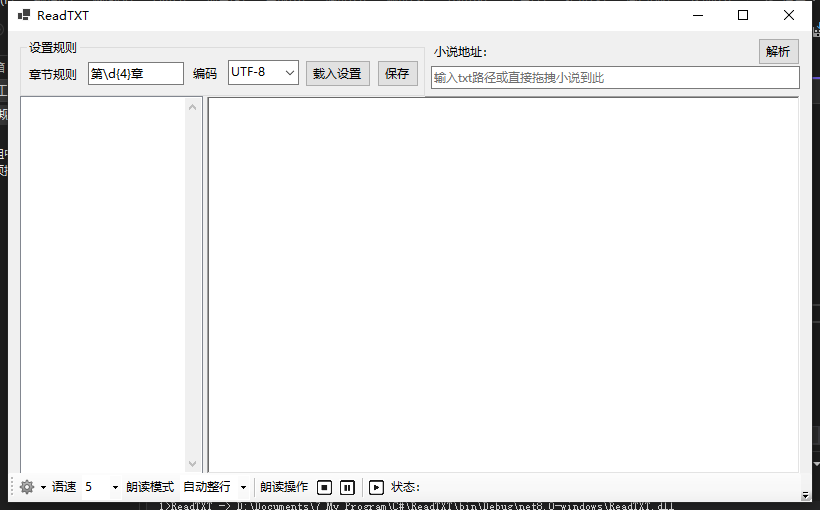
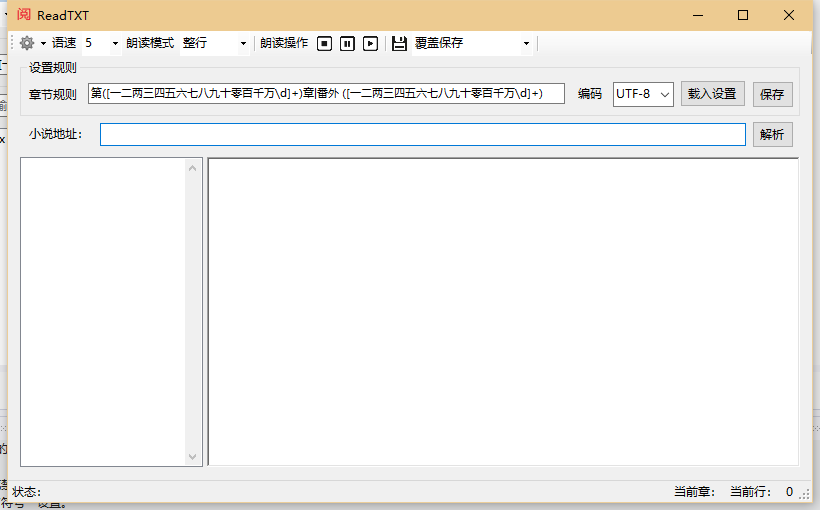
- 1 界面调整，控件命名规范化； - 2 默认章节规则修改为：第([一二两三四五六七八九十零百千万\d]+)章|番外 ([一二两三四五六七八九十零百千万\d]+) - 3 增加迷你窗体模式； - 4 增加快捷键操作； - 5 增加软件图标，以及托盘图标（包括右键菜单）；

Changed region(s): [[0.0, 0.0, 1.0, 1.0], [0.2134, 0.8824, 0.2439, 0.9118]]

diff --git a/ReadTXT.Designer.cs b/ReadTXT.Designer.cs
@@ -260,35 +260,35 @@
             // 背景色ToolStripMenuItem
             // 
             背景色ToolStripMenuItem.Name = "背景色ToolStripMenuItem";
-            背景色ToolStripMenuItem.Size = new Size(180, 22);
+            背景色ToolStripMenuItem.Size = new Size(112, 22);
             背景色ToolStripMenuItem.Text = "背景色";
             背景色ToolStripMenuItem.Click += 背景色ToolStripMenuItem_Click;
             // 
             // 字体ToolStripMenuItem
             // 
             字体ToolStripMenuItem.Name = "字体ToolStripMenuItem";
-            字体ToolStripMenuItem.Size = new Size(180, 22);
+            字体ToolStripMenuItem.Size = new Size(112, 22);
             字体ToolStripMenuItem.Text = "字体";
             字体ToolStripMenuItem.Click += 字体ToolStripMenuItem_Click;
             // 
             // 语音包ToolStripMenuItem
             // 
             语音包ToolStripMenuItem.Name = "语音包ToolStripMenuItem";
-            语音包ToolStripMenuItem.Size = new Size(180, 22);
+            语音包ToolStripMenuItem.Size = new Size(112, 22);
             语音包ToolStripMenuItem.Text = "语音包";
             // 
             // 快捷键ToolStripMenuItem
             // 
             快捷键ToolStripMenuItem.DropDownItems.AddRange(new ToolStripItem[] { 窗体切换ToolStripMenuItem, 最小化ToolStripMenuItem, 迷你窗体置顶ToolStripMenuItem, 开始朗读ToolStripMenuItem, 暂停朗读ToolStripMenuItem, 下一章ToolStripMenuItem, toolStripSeparator6, 重置默认ToolStripMenuItem });
             快捷键ToolStripMenuItem.Name = "快捷键ToolStripMenuItem";
-            快捷键ToolStripMenuItem.Size = new Size(180, 22);
+            快捷键ToolStripMenuItem.Size = new Size(112, 22);
             快捷键ToolStripMenuItem.Text = "快捷键";
             // 
             // 窗体切换ToolStripMenuItem
             // 
             窗体切换ToolStripMenuItem.DropDownItems.AddRange(new ToolStripItem[] { Winswitch_shortcut_toolStripTextBox });
             窗体切换ToolStripMenuItem.Name = "窗体切换ToolStripMenuItem";
-            窗体切换ToolStripMenuItem.Size = new Size(180, 22);
+            窗体切换ToolStripMenuItem.Size = new Size(148, 22);
             窗体切换ToolStripMenuItem.Text = "窗体切换";
             窗体切换ToolStripMenuItem.Click += 窗体切换ToolStripMenuItem_Click;
             // 
@@ -304,7 +304,7 @@
             // 
             最小化ToolStripMenuItem.DropDownItems.AddRange(new ToolStripItem[] { Minimize_shortcut_toolStripTextBox });
             最小化ToolStripMenuItem.Name = "最小化ToolStripMenuItem";
-            最小化ToolStripMenuItem.Size = new Size(180, 22);
+            最小化ToolStripMenuItem.Size = new Size(148, 22);
             最小化ToolStripMenuItem.Text = "最小化";
             最小化ToolStripMenuItem.Click += 最小化ToolStripMenuItem_Click;
             // 
@@ -320,7 +320,7 @@
             // 
             迷你窗体置顶ToolStripMenuItem.DropDownItems.AddRange(new ToolStripItem[] { MinTop_shortcut_toolStripTextBox });
             迷你窗体置顶ToolStripMenuItem.Name = "迷你窗体置顶ToolStripMenuItem";
-            迷你窗体置顶ToolStripMenuItem.Size = new Size(180, 22);
+            迷你窗体置顶ToolStripMenuItem.Size = new Size(148, 22);
             迷你窗体置顶ToolStripMenuItem.Text = "迷你窗体置顶";
             迷你窗体置顶ToolStripMenuItem.Click += 迷你窗体置顶ToolStripMenuItem_Click;
             // 
@@ -336,7 +336,7 @@
             // 
             开始朗读ToolStripMenuItem.DropDownItems.AddRange(new ToolStripItem[] { Startreading_shortcut_toolStripTextBox });
             开始朗读ToolStripMenuItem.Name = "开始朗读ToolStripMenuItem";
-            开始朗读ToolStripMenuItem.Size = new Size(180, 22);
+            开始朗读ToolStripMenuItem.Size = new Size(148, 22);
             开始朗读ToolStripMenuItem.Text = "开始朗读";
             开始朗读ToolStripMenuItem.Click += 开始朗读ToolStripMenuItem_Click;
             // 
@@ -345,14 +345,14 @@
             Startreading_shortcut_toolStripTextBox.Name = "Startreading_shortcut_toolStripTextBox";
             Startreading_shortcut_toolStripTextBox.ReadOnly = true;
             Startreading_shortcut_toolStripTextBox.Size = new Size(100, 23);
-            Startreading_shortcut_toolStripTextBox.Tag = "Ctrl+Alt+K";
-            Startreading_shortcut_toolStripTextBox.Text = "Ctrl+Alt+K";
+            Startreading_shortcut_toolStripTextBox.Tag = "Ctrl+K";
+            Startreading_shortcut_toolStripTextBox.Text = "Ctrl+K";
             // 
             // 暂停朗读ToolStripMenuItem
             // 
             暂停朗读ToolStripMenuItem.DropDownItems.AddRange(new ToolStripItem[] { Pausereading_shortcut_toolStripTextBox });
             暂停朗读ToolStripMenuItem.Name = "暂停朗读ToolStripMenuItem";
-            暂停朗读ToolStripMenuItem.Size = new Size(180, 22);
+            暂停朗读ToolStripMenuItem.Size = new Size(148, 22);
             暂停朗读ToolStripMenuItem.Text = "暂停朗读";
             暂停朗读ToolStripMenuItem.Click += 暂停朗读ToolStripMenuItem_Click;
             // 
@@ -361,14 +361,14 @@
             Pausereading_shortcut_toolStripTextBox.Name = "Pausereading_shortcut_toolStripTextBox";
             Pausereading_shortcut_toolStripTextBox.ReadOnly = true;
             Pausereading_shortcut_toolStripTextBox.Size = new Size(100, 23);
-            Pausereading_shortcut_toolStripTextBox.Tag = "Ctrl+Alt+Z";
-            Pausereading_shortcut_toolStripTextBox.Text = "Ctrl+Alt+Z";
+            Pausereading_shortcut_toolStripTextBox.Tag = "Ctrl+Z";
+            Pausereading_shortcut_toolStripTextBox.Text = "Ctrl+Z";
             // 
             // 下一章ToolStripMenuItem
             // 
             下一章ToolStripMenuItem.DropDownItems.AddRange(new ToolStripItem[] { Nextchapterreading_shortcut_toolStripTextBox });
             下一章ToolStripMenuItem.Name = "下一章ToolStripMenuItem";
-            下一章ToolStripMenuItem.Size = new Size(180, 22);
+            下一章ToolStripMenuItem.Size = new Size(148, 22);
             下一章ToolStripMenuItem.Text = "下一章";
             下一章ToolStripMenuItem.Click += 下一章ToolStripMenuItem_Click;
             // 
@@ -377,18 +377,18 @@
             Nextchapterreading_shortcut_toolStripTextBox.Name = "Nextchapterreading_shortcut_toolStripTextBox";
             Nextchapterreading_shortcut_toolStripTextBox.ReadOnly = true;
             Nextchapterreading_shortcut_toolStripTextBox.Size = new Size(100, 23);
-            Nextchapterreading_shortcut_toolStripTextBox.Tag = "Ctrl+Alt+N";
-            Nextchapterreading_shortcut_toolStripTextBox.Text = "Ctrl+Alt+N";
+            Nextchapterreading_shortcut_toolStripTextBox.Tag = "Ctrl+N";
+            Nextchapterreading_shortcut_toolStripTextBox.Text = "Ctrl+N";
             // 
             // toolStripSeparator6
             // 
             toolStripSeparator6.Name = "toolStripSeparator6";
-            toolStripSeparator6.Size = new Size(177, 6);
+            toolStripSeparator6.Size = new Size(145, 6);
             // 
             // 重置默认ToolStripMenuItem
             // 
             重置默认ToolStripMenuItem.Name = "重置默认ToolStripMenuItem";
-            重置默认ToolStripMenuItem.Size = new Size(180, 22);
+            重置默认ToolStripMenuItem.Size = new Size(148, 22);
             重置默认ToolStripMenuItem.Text = "重置默认";
             重置默认ToolStripMenuItem.Click += 重置默认ToolStripMenuItem_Click;
             // 
@@ -475,6 +475,7 @@
             Save_toolStripButton.Name = "Save_toolStripButton";
             Save_toolStripButton.Size = new Size(23, 22);
             Save_toolStripButton.Text = "保存";
+            Save_toolStripButton.ToolTipText = "保存(Ctrl+Alt+S)";
             Save_toolStripButton.Click += Save_toolStripButton_Click;
             // 
             // Save_toolStripComboBox
@@ -600,6 +601,7 @@
             Icon = (Icon)resources.GetObject("$this.Icon");
             MinimumSize = new Size(820, 510);
             Name = "ReadTXT";
+            StartPosition = FormStartPosition.CenterScreen;
             Text = "ReadTXT";
             Load += ReadTXT_Load;
             groupBox1.ResumeLayout(false);

diff --git a/HotkeyInputForm.cs b/HotkeyInputForm.cs
@@ -100,7 +100,7 @@ namespace ReadTXT
             return key.ToString();
         }
 
-        private void HotkeyInputForm_KeyDown(object sender, KeyEventArgs e)
+        private void HotkeyInputForm_KeyDown(object? sender, KeyEventArgs e)
         {
             // 更新修饰键状态
             UpdateModifierState(e.KeyCode, true);
@@ -116,7 +116,7 @@ namespace ReadTXT
             e.SuppressKeyPress = true;
         }
 
-        private void HotkeyInputForm_KeyUp(object sender, KeyEventArgs e)
+        private void HotkeyInputForm_KeyUp(object? sender, KeyEventArgs e)
         {
             // 更新修饰键状态
             UpdateModifierState(e.KeyCode, false);
@@ -159,7 +159,7 @@ namespace ReadTXT
                    key == Keys.LWin || key == Keys.RWin;
         }
 
-        private void okButton_Click(object sender, EventArgs e)
+        private void OkButton_Click(object? sender, EventArgs e)
         {
             // 验证热键
             if (primaryKey.HasValue)
@@ -174,14 +174,14 @@ namespace ReadTXT
             }
         }
 
-        private void cancelButton_Click(object sender, EventArgs e)
+        private void CancelButton_Click(object? sender, EventArgs e)
         {
             HotkeyString = string.Empty;
             this.DialogResult = DialogResult.Cancel;
             this.Close();
         }
 
-        private void clearButton_Click(object sender, EventArgs e)
+        private void ClearButton_Click(object? sender, EventArgs e)
         {
             // 清除当前设置
             ctrlPressed = false;
@@ -226,7 +226,7 @@ namespace ReadTXT
             this.okButton.TabIndex = 2;
             this.okButton.Text = "确定";
             this.okButton.UseVisualStyleBackColor = true;
-            this.okButton.Click += new System.EventHandler(this.okButton_Click);
+            this.okButton.Click += new System.EventHandler(this.OkButton_Click);
 
             // clearButton
             this.clearButton.Location = new System.Drawing.Point(93, 90);
@@ -235,7 +235,7 @@ namespace ReadTXT
             this.clearButton.TabIndex = 3;
             this.clearButton.Text = "清除";
             this.clearButton.UseVisualStyleBackColor = true;
-            this.clearButton.Click += new System.EventHandler(this.clearButton_Click);
+            this.clearButton.Click += new System.EventHandler(this.ClearButton_Click);
 
             // cancelButton
             this.cancelButton.Location = new System.Drawing.Point(174, 90);
@@ -244,7 +244,7 @@ namespace ReadTXT
             this.cancelButton.TabIndex = 4;
             this.cancelButton.Text = "取消";
             this.cancelButton.UseVisualStyleBackColor = true;
-            this.cancelButton.Click += new System.EventHandler(this.cancelButton_Click);
+            this.cancelButton.Click += new System.EventHandler(this.CancelButton_Click);
 
             // HotkeyInputForm
             this.ClientSize = new System.Drawing.Size(260, 135);

diff --git a/HotkeyManager.cs b/HotkeyManager.cs
@@ -35,9 +35,9 @@ namespace ReadTXT
                     { "ToggleMode", "Ctrl+Alt+M" },
                     { "MinimizeOrClose", "Ctrl+Alt+X" },
                     { "ToggleTopMost", "Ctrl+Alt+T" },
-                    { "StartReading", "Ctrl+Alt+K" },
-                    { "StopReading", "Ctrl+Alt+Z" },
-                    { "NextChapter", "Ctrl+Alt+N" },
+                    { "StartReading", "Ctrl+K" },
+                    { "StopReading", "Ctrl+Z" },
+                    { "NextChapter", "Ctrl+N" },
                     { "SaveDocument", "Ctrl+Alt+S" }
                 };
             }

diff --git a/README.md b/README.md
@@ -37,11 +37,12 @@
 
 ### 3.1 界面
 ![项目界面](StartView.png)
-
+![迷你窗口界面](MiniView.png)
 ### 3.2 设置
 
-#### 3.2.1 章节规则-通过正则表达匹配
-1 默认规则：第\d{4}章，用于匹配以“第”字开头，紧接着是四个连续数字，然后是“章”字的字符串。比如：“第0001章”；
+### 3.2.1 章节规则-通过正则表达匹配
+1 默认规则：第([一二两三四五六七八九十零百千万\d]+)章|番外 ([一二两三四五六七八九十零百千万\d]+)
+   可以匹配：第1章、第一章、番外 一、番外 1，等章节格式；
 2 其他规则：按需自己设置哈。
 3 如果章节没有规律的话，那就没法分章了。你可能需要自己编辑原文，设置章节。或者删除规则，那样就会读取全文。
  
@@ -53,27 +54,32 @@
 点击可以保存当前的设置，会自动生成一个名为“mySet.json”的文件。
 初始内容如下：每项的说明看//后的说明~~
 {
-  "Patterns": [
+  "patterns": [
     {
-      "textBox1Pattern": "",//上次保存的文件路径
-      "textBox2Pattern": "\u7B2C\\d{4}\u7AE0",//章节规则-默认为“第\d{4}章”，为什么不是中文，因为中文转换为JSON标准格式后就这样啦
-      "toolStripComboBox1Pattern": "5",//语速
-      "toolStripComboBox2Pattern": "\u81EA\u52A8\u6574\u884C",//朗读模式
-      "toolStripLabel6Pattern": "",//上次阅读的章节
-      "FontName": "Microsoft YaHei UI",//正文字体名称
-      "FontStyle": 0,//正文字体格式
-      "FontSize": 11.25,//正文字体大小
-      "BlackColor": {//这里一整串是正文和目录背景色
-        "R": 255,
-        "G": 255,
-        "B": 255,
-        "A": 255,
-        "IsKnownColor": true,
-        "IsEmpty": false,
-        "IsNamedColor": true,
-        "IsSystemColor": true,
-        "Name": "Window"
-      }
+      "txtPathTextBoxPattern": "",//文档路径
+      "ruleTextBoxPattern": "\u7B2C([\u4E00\u4E8C\u4E24\u4E09\u56DB\u4E94\u516D\u4E03\u516B\u4E5D\u5341\u96F6\u767E\u5343\u4E07\\d]\u002B)\u7AE0|\u756A\u5916 ([\u4E00\u4E8C\u4E24\u4E09\u56DB\u4E94\u516D\u4E03\u516B\u4E5D\u5341\u96F6\u767E\u5343\u4E07\\d]\u002B)",//章节规则
+      "speedToolStripComboBoxPattern": "5",//语速
+      "readModeToolStripComboBoxPattern": "\u6574\u884C",//朗读模式
+      "currentChapterToolStripStatusLabelPattern": "",//当前章节
+      "currentLineToolStripStatusLabelPattern": "0",//当前行
+      "fontName": "Microsoft YaHei UI",//字体名称
+      "fontStyle": 0,
+      "fontSize": 11.25,//字号大小
+      "blackColor": {
+        "r": 255,
+        "g": 255,
+        "b": 255,
+        "a": 255
+      },//背景色
+      "hotkeysForJson": {
+        "ToggleMode": "Ctrl\u002BAlt\u002BM",
+        "MinimizeOrClose": "Ctrl\u002BAlt\u002BX",
+        "ToggleTopMost": "Ctrl\u002BAlt\u002BT",
+        "StartReading": "Ctrl\u002BAlt\u002BK",
+        "StopReading": "Ctrl\u002BAlt\u002BZ",
+        "NextChapter": "Ctrl\u002BAlt\u002BN",
+        "SaveDocument": "Ctrl\u002BAlt\u002BS"
+      }//快捷键
     }
   ]
 }
@@ -87,8 +93,16 @@
 根据上面设置的章节规则匹配后会在目录栏加载所有匹配到的章节名称，点击章节正文就会在右边显示啦
 
 ### 3.2.7 设置按钮
-包含可设置的内容有：字体，背景色，语音包。
+包含可设置的内容有：字体，背景色，语音包，快捷键。
 
+#### 快捷键说明
+   窗口切换：Ctrl+Alt+M,
+   窗口最小化：Ctrl+Alt+X,
+   置顶迷你窗口：Ctrl+Alt+T,
+   开始朗读：Ctrl+K,
+   暂停朗读：Ctrl+Z,
+   下一章：Ctrl+N,
+   保存文档编辑：Ctrl+Alt+S
 ### 3.2.8 语速
 支持-10~10之间的整数的调整。
 
@@ -104,6 +118,12 @@
 ### 3.2.12 上次章节
 如果是载入的话这里显示的是上次的章节，如果点击目录了，就是当前的章节。这里主要是为了保存设置。
 
+### 3.3 迷你窗体按钮说明
+   暂停/继续：开启/暂停朗读；
+   下一章：调转到下一章开始朗读；
+   主窗口：切换到主窗口
+   置顶/不置顶：迷你窗体置顶/不置顶；
+
 ## 四、资源使用
 本项目内使用的部分包括但不限于字体、图片等资源来源于互联网。如果出现侵权可联系本项目移除。
 
@@ -114,7 +134,7 @@
 
 ## 六、其他
 如果有其他需求或问题可以说明，但是不一定更新哈。毕竟能力有限。实在抱歉啦，哈哈哈哈哈
-版本：0.0.0.0
+版本：0.0.0.4
 
 
 

diff --git a/CHANGELOG.md b/CHANGELOG.md
@@ -24,3 +24,12 @@
 
 -  暂停后点击继续从之前暂停的位置继续，而不是从章节头开始；
 -  当前朗读行，整段标识，而不是根据文本的自动换行。
+
+## [0.0.0.4] - 2026-1-15
+### 优化：
+
+- 1 界面调整，控件命名规范化；
+- 2 默认章节规则修改为：第([一二两三四五六七八九十零百千万\d]+)章|番外 ([一二两三四五六七八九十零百千万\d]+)
+- 3 增加迷你窗体模式；
+- 4 增加快捷键操作；
+- 5 增加软件图标，以及托盘图标（包括右键菜单）；
